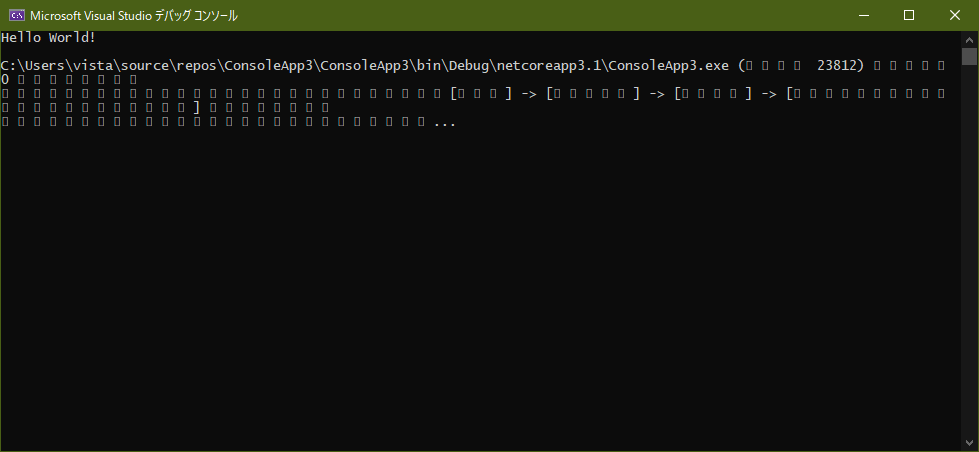
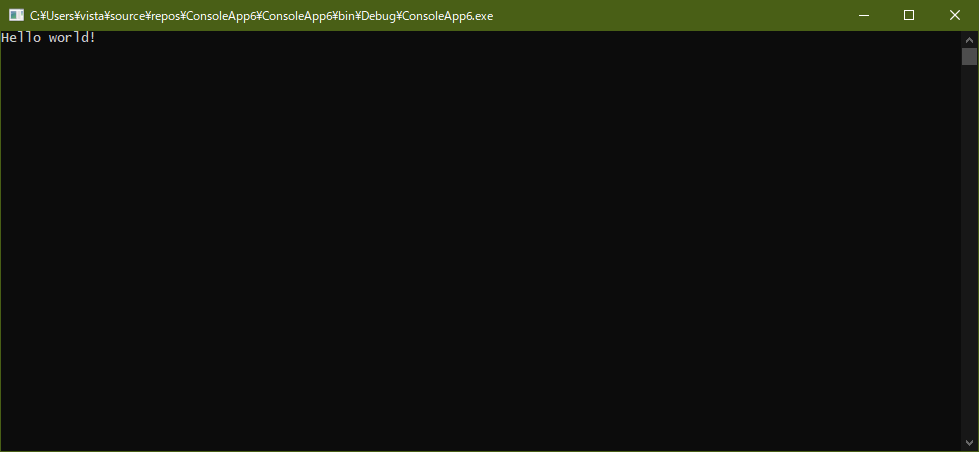
Add files via upload
修正の修正

Changed region(s): [[0.0, 0.1239, 0.9499, 0.2788], [0.0, 0.0, 0.5209, 0.0929]]

diff --git a/part2.md b/part2.md
@@ -4,15 +4,21 @@
 * この記事は[part1](./part1.md)を読み、環境構築を済ませた前提で書いています。ただIED環境でもほぼ同じだと思います...
 
 ## 2. 今回は
-* 「コンソールアプリケーション」テンプレートを用いてOpenCVSharpを使用する環境構築の仕方を紹介します。Part3では「Windows フォームアプリケーション」テンプレートを用いてOpenCVSharpを使用します。
+* 「コンソール アプリ(.NET Framework)」テンプレートを用いてOpenCVSharpを使用する環境構築の仕方を紹介します。Part3では「Windows フォームアプリケーション」テンプレートを用いてOpenCVSharpを使用します。
 
 ## 3. Hello world!
-Part1の3.3.1を参考に、コンソールアプリケーションテンプレートでコードが書ける状態にしてください。
 ![](./picture/part2/1.PNG)  
-この画面をよく見てみましょう！なんと「Hello World!」をコンソールに表示するコードが書いてありますね！上部分の四角で囲んだ「▷ ConsoleApp3」(ConsoleApp3はプロジェクト名によって異なります)を押してプログラムを実行してみましょう！
+Part1の3.3.1を参考に、コンソール アプリ(.NET Framework)テンプレートでコードが書ける状態にしてください。
+![](./picture/part2/1-1.PNG)  
+上図のように、static void Main(string[] args){}の{}の間に
+
+Console.WriteLine("Hello world!");  
+Console.ReadKey();  
+
+の二行を入れます。  
+そして上部分の四角で囲んだ「▷ ConsoleApp3」(ConsoleApp3はプロジェクト名によって異なります)を押してプログラムを実行してみましょう！
 ![](./picture/part2/2.PNG) 
 コンソールに「Hello world!」と表示されてますね！  
-(下の謎の□は気にしないでください...たぶん皆さんの正常な環境では日本語が表示されてると思います)  
 以上の方法で、C#で書かれたプログラムを実行することができます！
 ## 4. OpenCVSharpの使用
 次はOpenCVSharpを使用する方法を学んでみましょう！  

diff --git a/part1.md b/part1.md
@@ -3,7 +3,7 @@
 * これはIEDでのWindows上の実験環境をローカル環境でも構築することを目的とした記事です。
 * Visual StudioのバージョンがIEDと違う(IEDは2017、本記事は2019)など差異はありますが、実際にこの記事の手順で書いたプログラムをIED上のVisual Studioでコンパイルして動作することを確認しています。  
 * Windows環境向けの記事です、MacOS、Linuxを使用の方はこの方法では動きません(そもそもVisual Studioがないし...)  Windows環境以外の方は別環境(Vim,VSCode,etc...)や別言語(C++,Python,etc...)でも実験の本質的なこと(OpenCVを動かす)は実行できます、ただフォームはIED上で作る必要があります この場合には使用するOpenCVのバージョンに気を付けてください(本実験ではOpenCVSharp2.4.10を使用しています)
-* この記事はPart1です、Visual Studioのインストールを解説します。[part2](./part2.md)ではOpenCVSharpの使用方法を解説する予定です。
+* この記事はPart1です、Visual Studioのインストールを解説します。Part2ではOpenCVSharpの使用方法を解説する予定です。
 
 ## 2. これすると何がいいの？
 * 自前のPCで実験課題ができる
@@ -47,4 +47,4 @@ Windows フォームアプリケーションが作りたい場合は上図の「
 ![](./picture/14.PNG)  
 コードが書けます！！！お疲れさまでした！！！！！！（戦いは始まったばかり）
 
-[part2](./part2.md)へつづく
+part2へつづく
